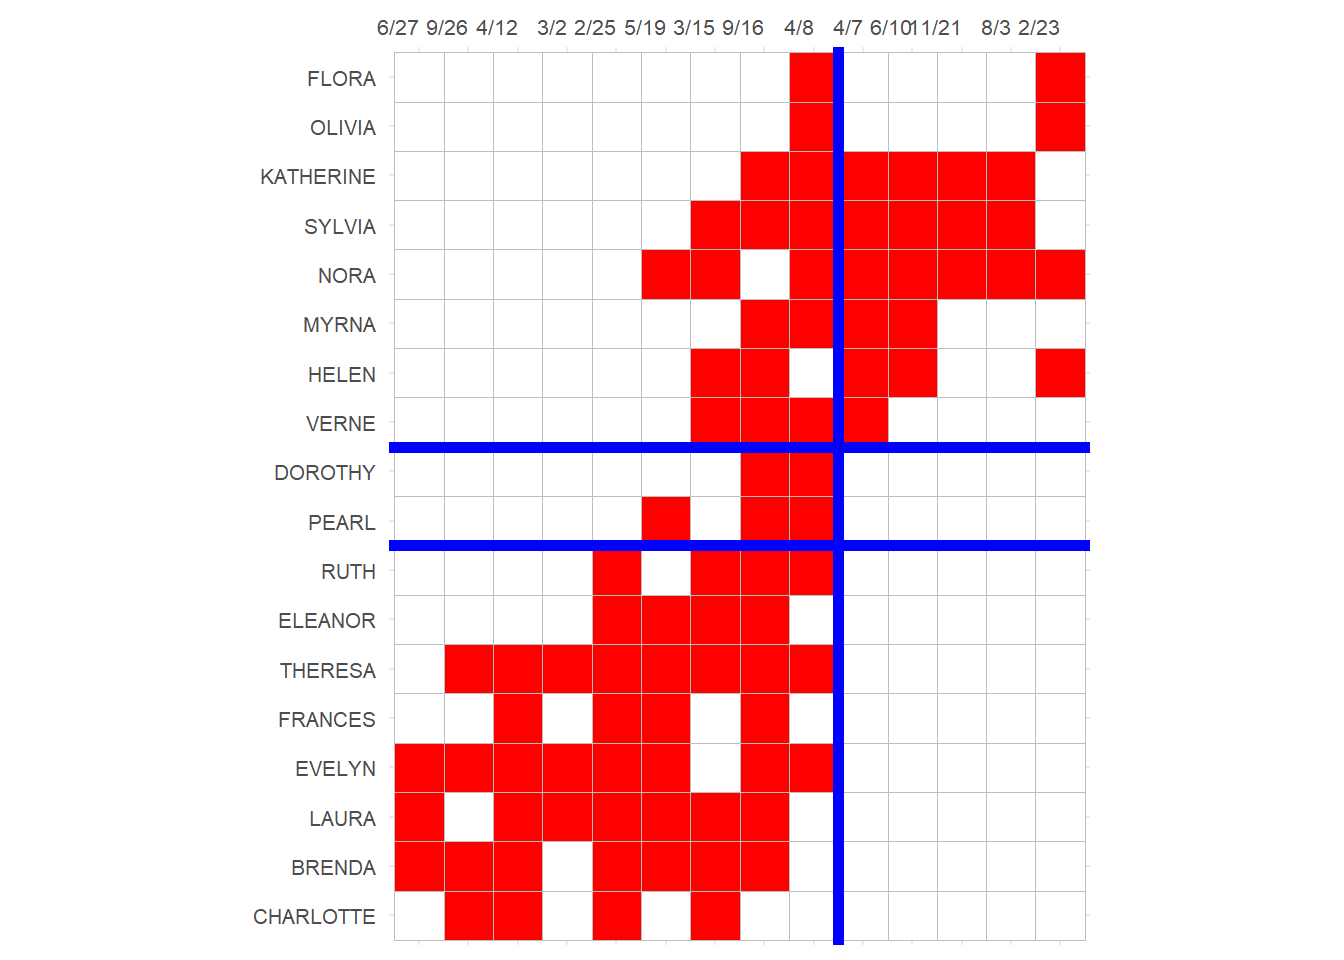
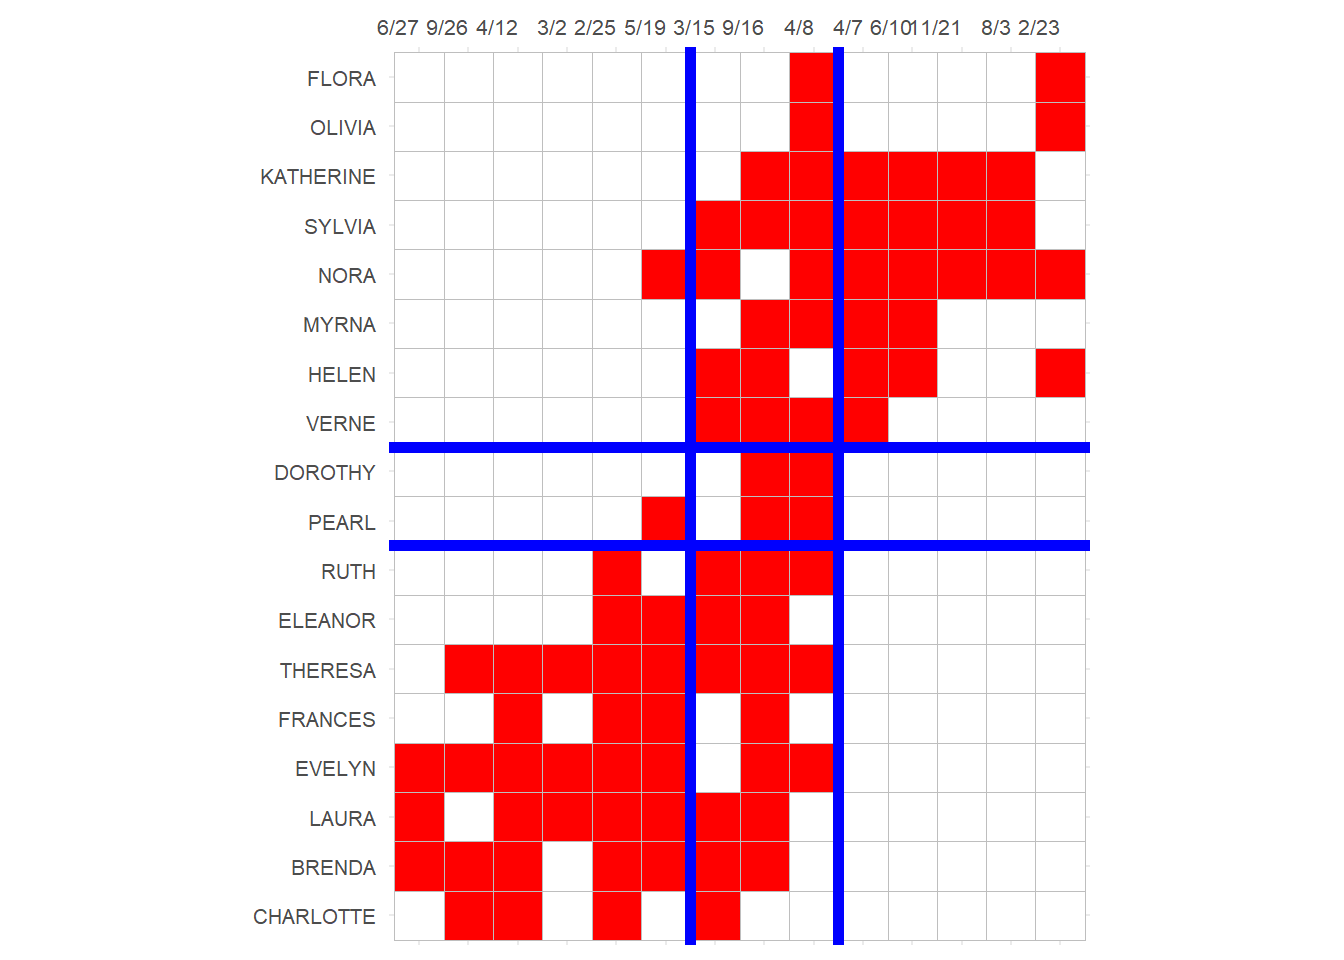
Ok for realz

Changed region(s): [[0.5, 0.0312, 0.5312, 1.0]]

diff --git a/docs/handout7.html b/docs/handout7.html
@@ -1849,12 +1849,13 @@ FLORA     -0.24  0.33  0.66</code></pre>
 <span id="cb123-8"><a href="#cb123-8"></a>   p <span class="ot">&lt;-</span> p <span class="sc">+</span> <span class="fu">geom_hline</span>(<span class="at">yintercept =</span> <span class="fl">8.5</span>, <span class="at">linewidth =</span> <span class="dv">2</span>, <span class="at">color =</span> <span class="st">"blue"</span>)</span>
 <span id="cb123-9"><a href="#cb123-9"></a>   p <span class="ot">&lt;-</span> p <span class="sc">+</span> <span class="fu">geom_hline</span>(<span class="at">yintercept =</span> <span class="fl">10.5</span>, <span class="at">linewidth =</span> <span class="dv">2</span>, <span class="at">color =</span> <span class="st">"blue"</span>)</span>
 <span id="cb123-10"><a href="#cb123-10"></a>   p <span class="ot">&lt;-</span> p <span class="sc">+</span> <span class="fu">geom_vline</span>(<span class="at">xintercept =</span> <span class="fl">9.5</span>, <span class="at">linewidth =</span> <span class="dv">2</span>, <span class="at">color =</span> <span class="st">"blue"</span>)</span>
-<span id="cb123-11"><a href="#cb123-11"></a>   p</span></code><button title="Copy to Clipboard" class="code-copy-button"><i class="bi"></i></button></pre></div>
+<span id="cb123-11"><a href="#cb123-11"></a>   p <span class="ot">&lt;-</span> p <span class="sc">+</span> <span class="fu">geom_vline</span>(<span class="at">xintercept =</span> <span class="fl">6.5</span>, <span class="at">linewidth =</span> <span class="dv">2</span>, <span class="at">color =</span> <span class="st">"blue"</span>)</span>
+<span id="cb123-12"><a href="#cb123-12"></a>   p</span></code><button title="Copy to Clipboard" class="code-copy-button"><i class="bi"></i></button></pre></div>
 <div class="cell-output-display">
 <p><img src="handout7_files/figure-html/unnamed-chunk-60-1.png" class="img-fluid" width="672"></p>
 </div>
 </div>
-<p>Here the CA analysis seems to have detected to cluster of actors who preferentially attend two distinct clusters of events!</p>
+<p>Here CA seems to have detected to cluster of actors who preferentially attend two distinct clusters of events! The events in the middle don’t seem to differentiate between participants in each cluster (everyone attends), but the events in the lower left and upper right are attended by a distinct cluster of participants.</p>
 
 
 
